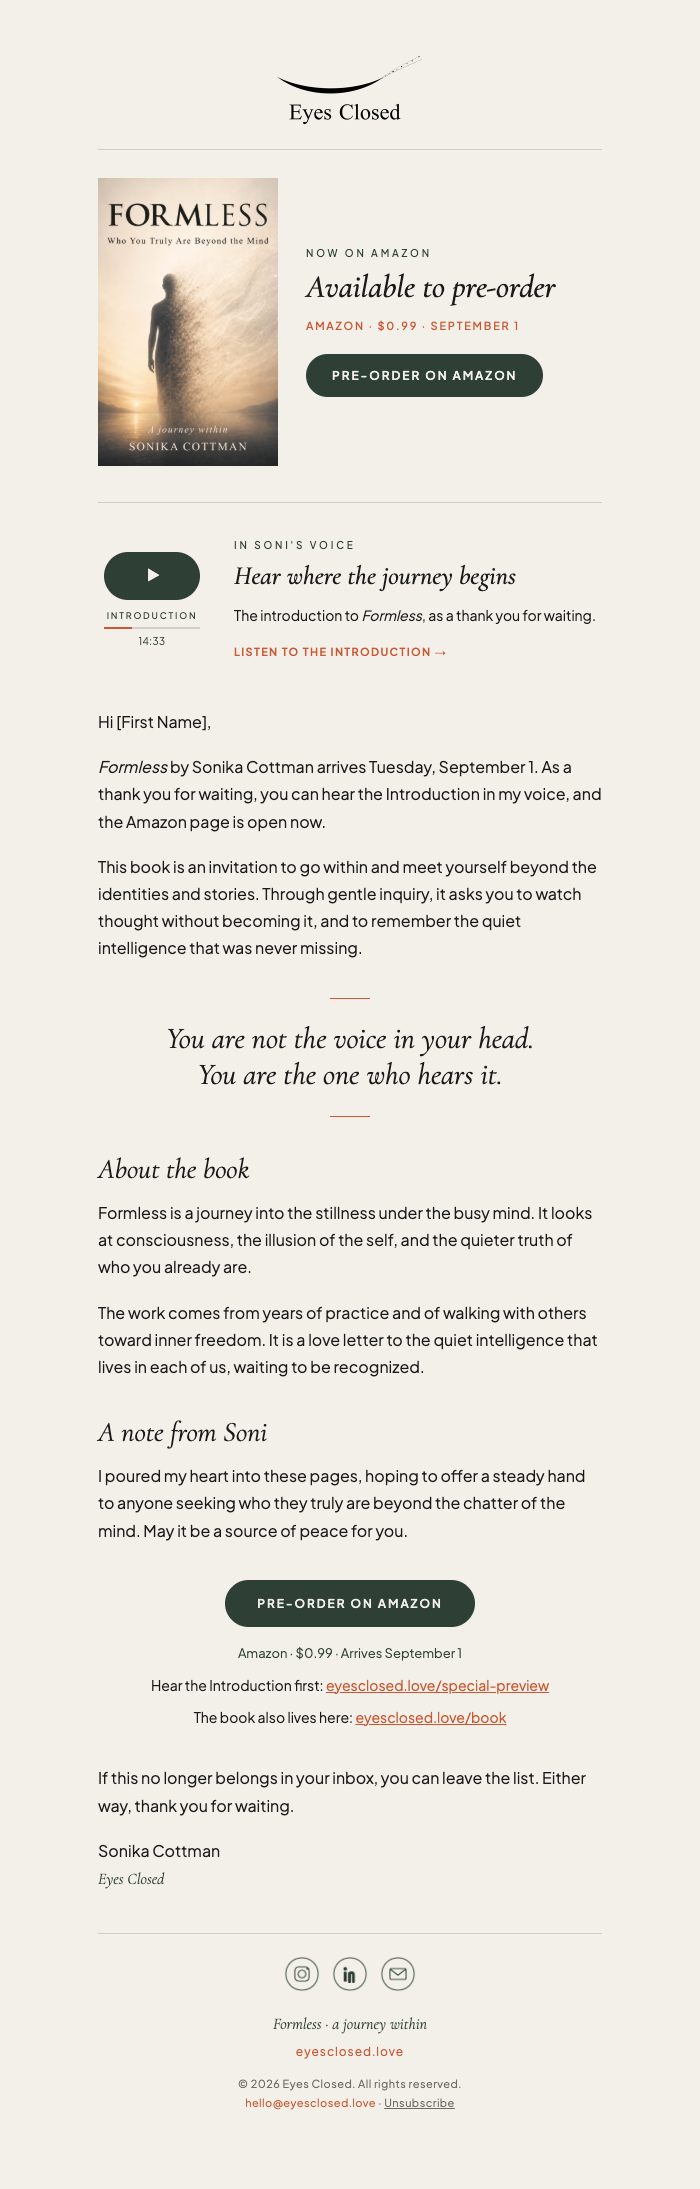
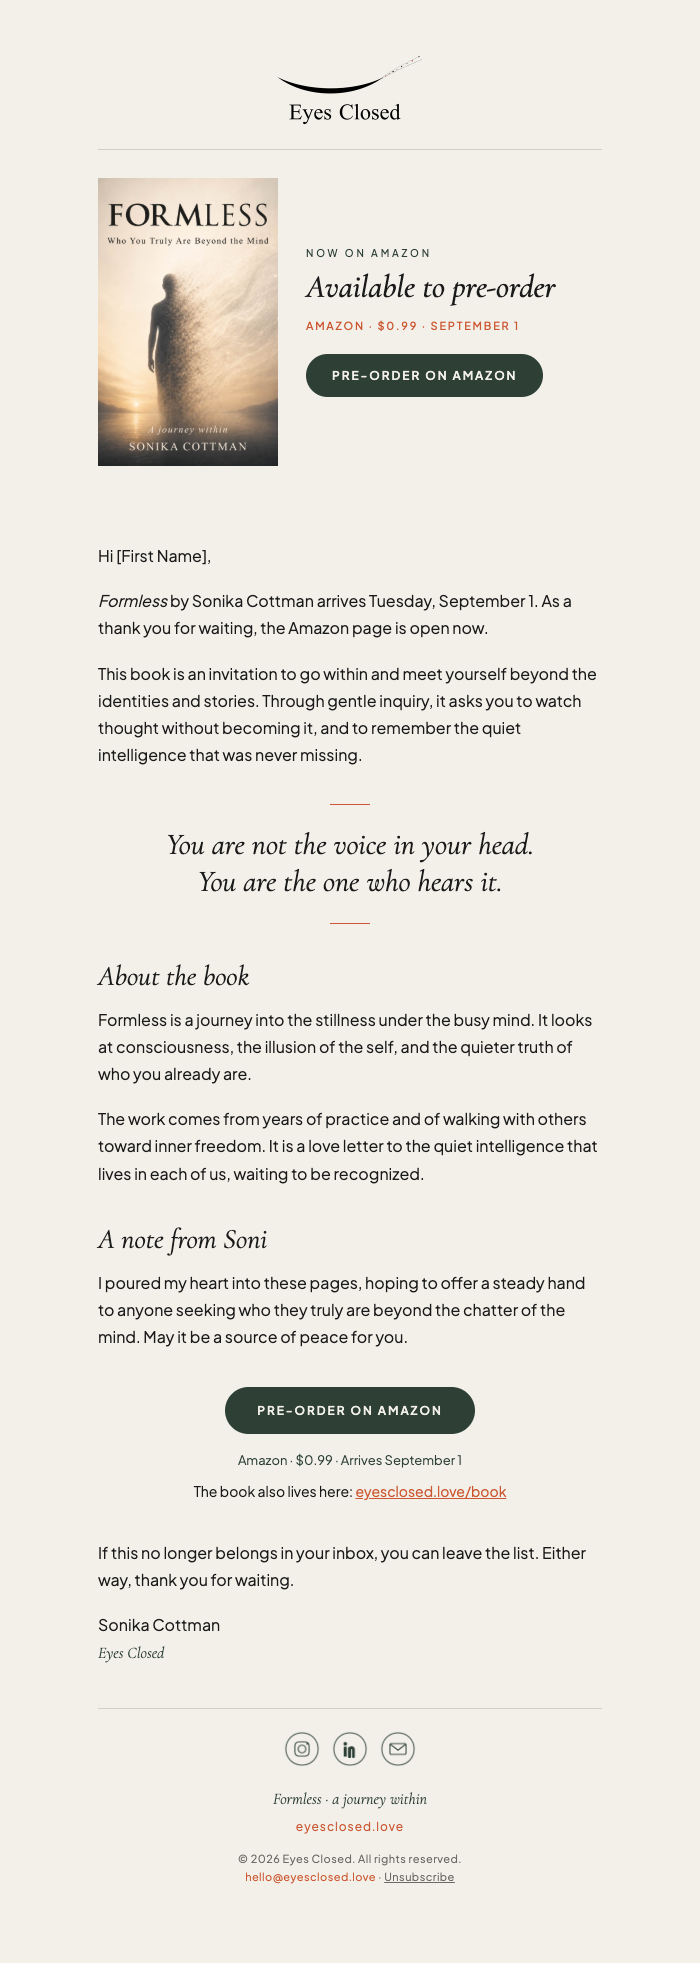
Keep both Kindle preorder letters on Designs.
Jacket lockup stays the default; With Introduction is a second option on the same card.

Changed region(s): [[0.12, 0.0621, 0.87, 0.8701], [0.33, 0.8701, 0.66, 0.9633], [0.39, 0.0311, 0.57, 0.0621]]

diff --git a/src/data/brandMaterials.ts b/src/data/brandMaterials.ts
@@ -351,21 +351,31 @@ export const BRAND_DESIGNS: readonly BrandDesign[] = [
     channel: 'Email',
     owner: 'Soni',
     usedFor:
-      'Soni sends this when the Kindle page is open. Cream letter with jacket lockup, Introduction listen, $0.99, September 1, Amazon button, socials. Open /emails/formless-preorder-intro.html. Zoho: upload /emails/zoho-import/formless-preorder-intro.html and formless-preorder-intro-assets.zip.',
-    href: '/emails/formless-preorder-intro.html',
+      'Soni sends this when the Kindle page is open. Cream letter, jacket lockup, $0.99, September 1, Amazon button, socials. Pick the version below: jacket only, or jacket plus Introduction.',
+    href: '/emails/formless-preorder.html',
     currentVersionId: 'html',
     versions: [
       {
         id: 'html',
-        label: 'Coded letter',
+        label: 'Jacket lockup',
         role: 'live',
-        filename: 'formless-preorder-intro.html',
+        filename: 'formless-preorder.html',
         previewSrc: '/design/previews/formless-preorder-email.png',
+        href: '/emails/formless-preorder.html',
+        notes: 'Cream letter with side-by-side jacket. Paste /emails/formless-preorder-zoho.html into Zoho.',
+      },
+      {
+        id: 'intro',
+        label: 'With Introduction',
+        role: 'exploration',
+        filename: 'formless-preorder-intro.html',
+        previewSrc: '/design/previews/formless-preorder-intro-email.png',
         href: '/emails/formless-preorder-intro.html',
-        notes: 'Cream letter with Introduction. Click the preview to open the page. Zoho zip: /emails/zoho-import/formless-preorder-intro-assets.zip.',
+        notes:
+          'Same cream letter plus the Introduction listen block. Zoho: upload /emails/zoho-import/formless-preorder-intro.html and formless-preorder-intro-assets.zip.',
       },
     ],
-    source: 'public/emails/formless-preorder-intro.html',
+    source: 'public/emails/formless-preorder.html',
   },
 ];
 

diff --git a/src/data/brandMaterials.test.ts b/src/data/brandMaterials.test.ts
@@ -85,11 +85,18 @@ describe('brandMaterials', () => {
     expect(designPreviewSrc(waitlist!)).toBe(
       '/design/previews/formless-waitlist-email-html.png',
     );
-    expect(preorder?.href).toBe('/emails/formless-preorder-intro.html');
+    expect(preorder?.href).toBe('/emails/formless-preorder.html');
     expect(designPreviewSrc(preorder!)).toBe(
       '/design/previews/formless-preorder-email.png',
     );
-    expect(preorder?.versions[0]?.filename).toBe('formless-preorder-intro.html');
+    expect(preorder?.versions.map((version) => version.id)).toEqual(['html', 'intro']);
+    expect(preorder?.versions.map((version) => version.filename)).toEqual([
+      'formless-preorder.html',
+      'formless-preorder-intro.html',
+    ]);
+    expect(preorder?.versions.find((version) => version.id === 'intro')?.previewSrc).toBe(
+      '/design/previews/formless-preorder-intro-email.png',
+    );
   });
 
   it('exposes kind, campaign, audience, channel, and owner as chips', () => {
